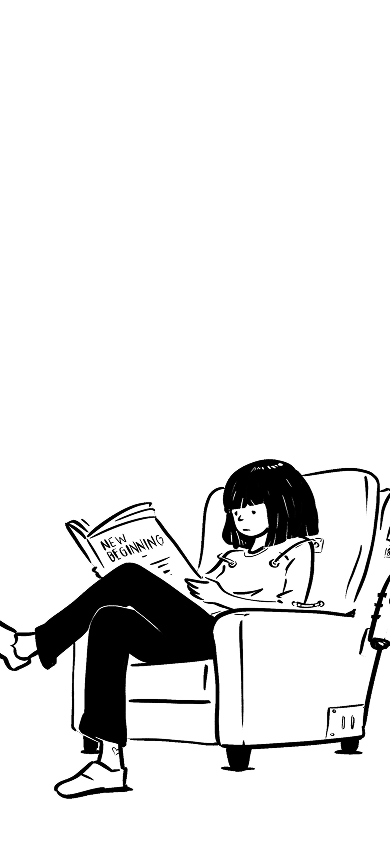
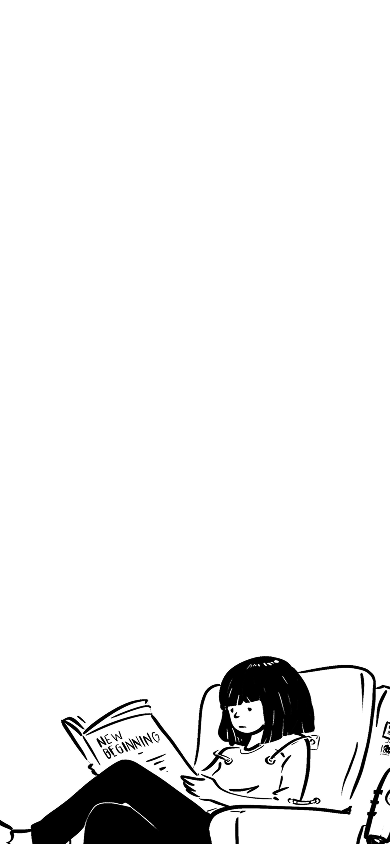
feat: :lipstick: Agregar imagen de página de inicio

Changed region(s): [[0.0, 0.5237, 1.0, 1.0]]

diff --git a/src/css/style.css b/src/css/style.css
@@ -102,3 +102,17 @@ header p{
 .section_form p a{
     color: var(--color-3);
 }
+
+/* ************************************* */
+/* *************** Footer *************** */
+footer{
+    /* background-color: red; */
+    height: 224px;
+    position: relative;
+    overflow: hidden;
+}
+
+footer img{
+    position: absolute;
+    bottom: 8px;
+}
